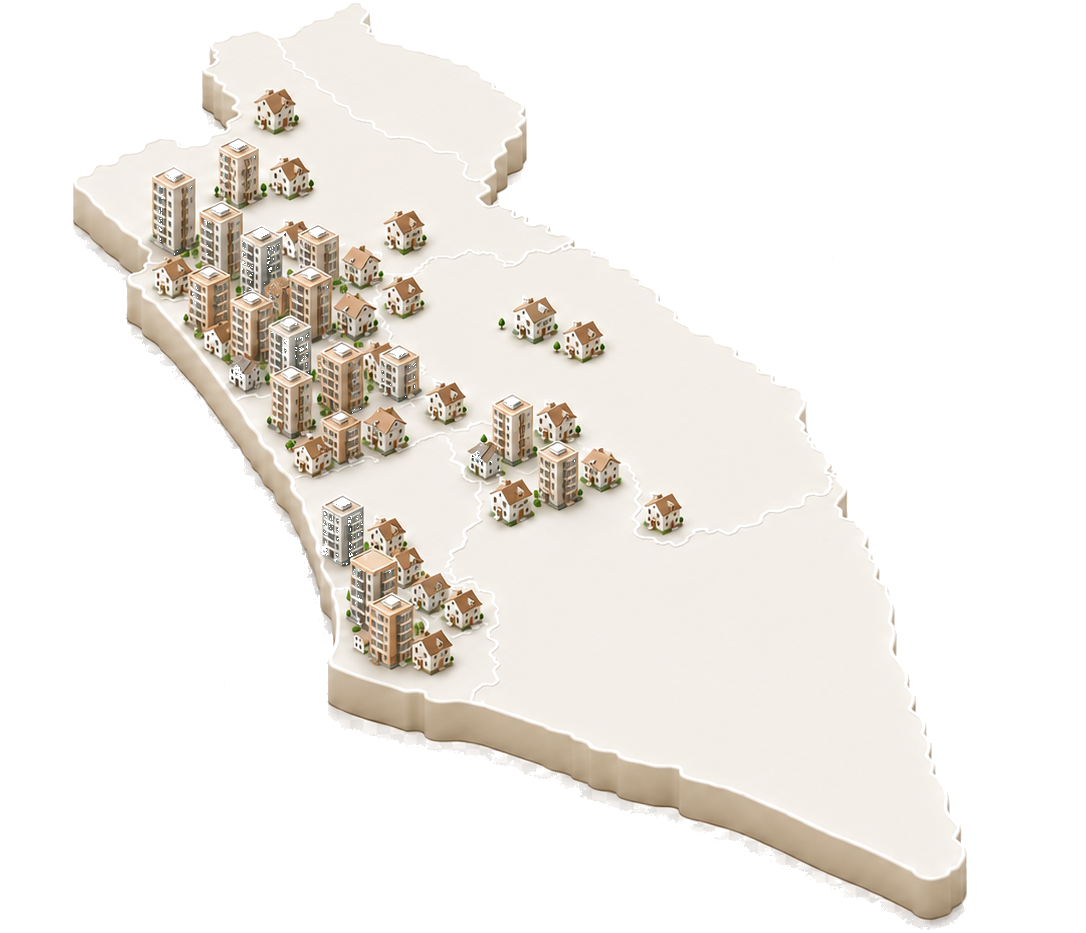
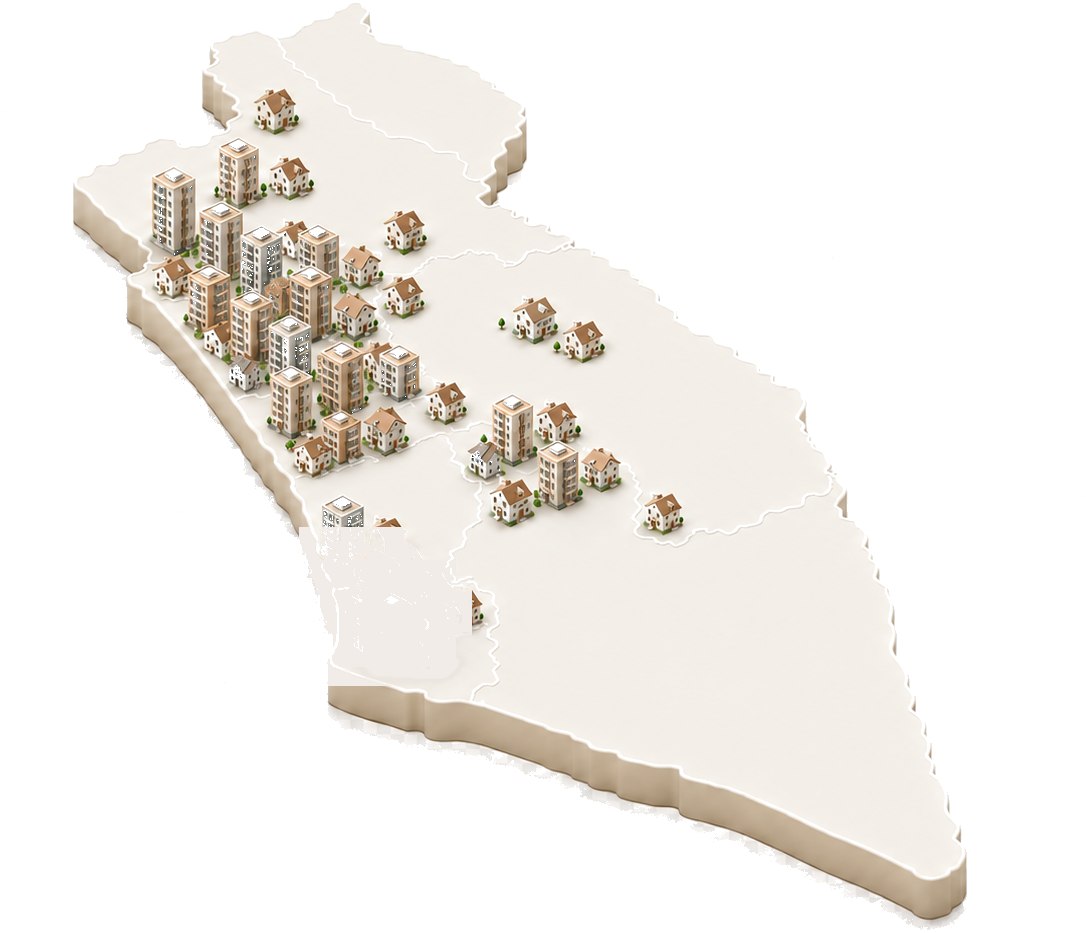
Update landing page

Changed region(s): [[0.2735, 0.5595, 0.4558, 0.746]]

diff --git a/script.js b/script.js
@@ -255,103 +255,61 @@ document.addEventListener('DOMContentLoaded', () => {
   // Footer year
   document.getElementById('year').textContent = new Date().getFullYear();
 
-  // ===== Nationwide coverage map: interactive home/building markers =====
-  // Positions are hand-placed percentages (--x/--y) tuned against the actual
-  // israel-map.png artwork, so they sit visually on the areas they name.
+  // ===== Nationwide coverage map: hover-by-region =====
+  // Each city is a whole area of the map (an ellipse), not a single icon —
+  // hovering anywhere inside it shows the city name. Ellipses were measured
+  // directly off a hand-annotated reference (circles drawn over israel-map.png).
   (function buildCoverageIcons() {
     const wrap = document.getElementById('coverage-wrap');
     const layer = document.getElementById('map-icons-layer');
     const tip = document.getElementById('map-tooltip');
     if (!wrap || !layer || !tip) return;
 
-    // [city, type, x%, y%] — one marker per city, placed by real lon/lat
-    // (calibrated against Jerusalem + Eilat on the accurate outline map).
-    // Hotspot positions hand-placed to sit on the pre-rendered building
-    // clusters in israel-map.png (the artwork already draws the buildings —
-    // these are invisible-by-default hit-targets, see .map-home-marker svg).
-    const mapLocations = [
-      ['הרצליה', 'house', 24, 11],
-      ['תל אביב', 'building', 17, 24],
-      ['רמת גן', 'building', 29, 27],
-      ['פתח תקווה', 'house', 46, 33],
-      ['בת ים', 'house', 16, 38],
-      ['חולון', 'house', 20, 43],
-      ['ראשון לציון', 'house', 25, 48],
-      ['בית שמש', 'building', 46, 47],
-      ['רחובות', 'house', 30, 56],
-      ['אשדוד', 'building', 30, 64],
-      ['אשקלון', 'house', 33, 69]
+    // [city, cx%, cy%, rx%, ry%, zIndex] — where regions overlap, the smaller
+    // one needs the higher zIndex or it gets swallowed by its bigger neighbour.
+    const mapRegions = [
+      ['חיפה', 12, 21, 7, 8, 4],
+      ['הרצליה', 23, 25, 9, 6.5, 2],
+      ['תל אביב', 22, 37, 6.5, 6.5, 6],
+      ['רמת גן', 32, 33, 5.5, 5.5, 9],
+      ['פתח תקווה', 34, 24, 6, 6, 7],
+      ['ירושלים', 51, 33, 7, 6.5, 5],
+      ['חולון', 40, 42, 4, 4, 11],
+      ['בית שמש', 50, 45, 8, 7, 3],
+      ['בת ים', 28, 46, 7, 4, 10],
+      ['אשדוד', 28, 55, 7, 5, 8],
+      ['אשקלון', 34, 65, 9, 9, 1]
     ];
 
-    // Five hand-drawn variants (2 pitched-roof houses + 3 building heights),
-    // each a true isometric box — two shaded wall faces plus a top/roof face —
-    // in the warm terracotta/cream palette from the reference art, cycled per
-    // marker so the cluster reads as a varied 3D streetscape, not a flat icon.
-    const house1SVG = '<svg viewBox="0 0 100 140" xmlns="http://www.w3.org/2000/svg">' +
-      '<polygon points="50,138 28,127 28,101 50,112" fill="#ecd9ba"/>' +
-      '<polygon points="50,138 72,127 72,101 50,112" fill="#d2b98f"/>' +
-      '<polygon points="50,112 28,101 50,75" fill="#c17a3f"/>' +
-      '<polygon points="50,112 72,101 50,75" fill="#9c5827"/>' +
-      '<rect x="34" y="115" width="6" height="6" fill="#fdf6ea"/>' +
-      '<rect x="58" y="115" width="6" height="6" fill="#fdf6ea"/></svg>';
-    const house2SVG = '<svg viewBox="0 0 100 140" xmlns="http://www.w3.org/2000/svg">' +
-      '<polygon points="50,138 28,127 28,97 50,108" fill="#e3cda3"/>' +
-      '<polygon points="50,138 72,127 72,97 50,108" fill="#c7a878"/>' +
-      '<polygon points="50,108 28,97 50,69" fill="#a85c2c"/>' +
-      '<polygon points="50,108 72,97 50,69" fill="#8a481d"/>' +
-      '<rect x="34" y="112" width="6" height="6" fill="#fdf6ea"/>' +
-      '<rect x="58" y="112" width="6" height="6" fill="#fdf6ea"/>' +
-      '<circle cx="84" cy="124" r="7" fill="#5b7a52"/>' +
-      '<rect x="82" y="131" width="3" height="6" fill="#6b4a30"/></svg>';
-    const buildingLowSVG = '<svg viewBox="0 0 100 140" xmlns="http://www.w3.org/2000/svg">' +
-      '<polygon points="50,138 30,128 30,73 50,83" fill="#d9c3a3"/>' +
-      '<polygon points="50,138 70,128 70,73 50,83" fill="#b89968"/>' +
-      '<polygon points="50,83 30,73 50,63 70,73" fill="#e8d9c0"/>' +
-      '<rect x="37" y="95" width="6" height="6" fill="#fdf6ea"/><rect x="37" y="110" width="6" height="6" fill="#fdf6ea"/>' +
-      '<rect x="57" y="95" width="6" height="6" fill="#fdf6ea"/><rect x="57" y="110" width="6" height="6" fill="#fdf6ea"/></svg>';
-    const buildingMidSVG = '<svg viewBox="0 0 100 140" xmlns="http://www.w3.org/2000/svg">' +
-      '<polygon points="50,138 30,128 30,48 50,58" fill="#e3d0b0"/>' +
-      '<polygon points="50,138 70,128 70,48 50,58" fill="#c2a479"/>' +
-      '<polygon points="50,58 30,48 50,38 70,48" fill="#f0e2c8"/>' +
-      '<rect x="37" y="70" width="6" height="6" fill="#fdf6ea"/><rect x="37" y="85" width="6" height="6" fill="#fdf6ea"/><rect x="37" y="100" width="6" height="6" fill="#fdf6ea"/>' +
-      '<rect x="57" y="70" width="6" height="6" fill="#fdf6ea"/><rect x="57" y="85" width="6" height="6" fill="#fdf6ea"/><rect x="57" y="100" width="6" height="6" fill="#fdf6ea"/></svg>';
-    const buildingTallSVG = '<svg viewBox="0 0 100 140" xmlns="http://www.w3.org/2000/svg">' +
-      '<polygon points="50,138 32,129 32,24 50,33" fill="#cdb693"/>' +
-      '<polygon points="50,138 68,129 68,24 50,33" fill="#a9895c"/>' +
-      '<polygon points="50,33 32,24 50,15 68,24" fill="#ddc9a3"/>' +
-      '<rect x="44" y="6" width="12" height="9" fill="#8a6a45"/>' +
-      '<rect x="39" y="45" width="6" height="6" fill="#fdf6ea"/><rect x="39" y="60" width="6" height="6" fill="#fdf6ea"/><rect x="39" y="75" width="6" height="6" fill="#fdf6ea"/><rect x="39" y="95" width="6" height="6" fill="#fdf6ea"/>' +
-      '<rect x="55" y="45" width="6" height="6" fill="#fdf6ea"/><rect x="55" y="60" width="6" height="6" fill="#fdf6ea"/><rect x="55" y="75" width="6" height="6" fill="#fdf6ea"/><rect x="55" y="95" width="6" height="6" fill="#fdf6ea"/></svg>';
-    const houseVariants = [house1SVG, house2SVG];
-    const buildingVariants = [buildingLowSVG, buildingMidSVG, buildingTallSVG];
-
-    let activeMarker = null;
+    let activeZone = null;
     const hideTip = () => {
       tip.classList.remove('show');
-      if (activeMarker) activeMarker.classList.remove('is-active');
-      activeMarker = null;
+      if (activeZone) activeZone.classList.remove('is-active');
+      activeZone = null;
     };
-    const showTip = (city, marker) => {
+    const showTip = (city, zone) => {
       const wrapRect = wrap.getBoundingClientRect();
-      const markerRect = marker.getBoundingClientRect();
+      const zoneRect = zone.getBoundingClientRect();
       tip.textContent = city;
-      tip.style.left = (markerRect.left - wrapRect.left + markerRect.width / 2) + 'px';
-      tip.style.top = (markerRect.top - wrapRect.top) + 'px';
+      tip.style.left = (zoneRect.left - wrapRect.left + zoneRect.width / 2) + 'px';
+      tip.style.top = (zoneRect.top - wrapRect.top + zoneRect.height / 2) + 'px';
       tip.classList.add('show');
-      if (activeMarker && activeMarker !== marker) activeMarker.classList.remove('is-active');
-      marker.classList.add('is-active');
-      activeMarker = marker;
+      if (activeZone && activeZone !== zone) activeZone.classList.remove('is-active');
+      zone.classList.add('is-active');
+      activeZone = zone;
     };
 
-    mapLocations.forEach(([city, type, x, y], i) => {
+    mapRegions.forEach(([city, cx, cy, rx, ry, z]) => {
       const btn = document.createElement('button');
       btn.type = 'button';
-      btn.className = 'map-home-marker';
+      btn.className = 'map-region-zone';
       btn.dataset.city = city;
       btn.setAttribute('aria-label', city);
-      btn.style.setProperty('--x', x + '%');
-      btn.style.setProperty('--y', y + '%');
-      btn.innerHTML = type === 'building' ? buildingVariants[i % buildingVariants.length] : houseVariants[i % houseVariants.length];
+      btn.style.left = cx + '%';
+      btn.style.top = cy + '%';
+      btn.style.width = (rx * 2) + '%';
+      btn.style.height = (ry * 2) + '%';
+      btn.style.zIndex = String(z);
       btn.addEventListener('mouseenter', () => showTip(city, btn));
       btn.addEventListener('mouseleave', hideTip);
       btn.addEventListener('focus', () => showTip(city, btn));

diff --git a/styles.css b/styles.css
@@ -1288,44 +1288,25 @@ html.a11y-align body p, html.a11y-align body li { text-align: right !important; 
   inset: 0;
   pointer-events: none;
 }
-.map-home-marker {
+.map-region-zone {
   position: absolute;
-  left: var(--x);
-  top: var(--y);
-  transform: translate(-50%, -100%);
-  width: 24px;
-  height: 34px;
-  display: flex;
-  align-items: center;
-  justify-content: center;
+  transform: translate(-50%, -50%);
+  border-radius: 50%;
   padding: 0;
-  background: none;
+  background: rgba(138, 98, 61, 0);
   border: none;
   cursor: pointer;
   pointer-events: auto;
-  filter: drop-shadow(0 0 2px #fff) drop-shadow(0 0 2px #fff) drop-shadow(0 2px 4px var(--map-icon-shadow));
-  transition: transform 0.15s ease, filter 0.15s ease;
+  transition: background 0.15s ease;
 }
-.map-home-marker svg { width: 100%; height: 100%; display: block; overflow: visible; opacity: 0; transition: opacity 0.15s ease; }
-.map-home-marker:hover,
-.map-home-marker:focus-visible,
-.map-home-marker.is-active {
-  transform: translate(-50%, -100%) scale(1.2);
-  filter: drop-shadow(0 3px 6px var(--map-icon-shadow)) drop-shadow(0 0 5px var(--map-icon-accent));
-  z-index: 5;
+.map-region-zone:hover,
+.map-region-zone:focus-visible,
+.map-region-zone.is-active {
+  background: rgba(138, 98, 61, 0.16);
 }
-.map-home-marker:hover svg,
-.map-home-marker:focus-visible svg,
-.map-home-marker.is-active svg {
-  opacity: 1;
-}
-.map-home-marker:focus-visible {
+.map-region-zone:focus-visible {
   outline: 2px solid var(--map-icon-accent);
-  outline-offset: 3px;
-  border-radius: 6px;
-}
-@media (max-width: 600px) {
-  .map-home-marker { width: 14px; height: 20px; }
+  outline-offset: 2px;
 }
 
 .map-tooltip {

diff --git a/apartments.html b/apartments.html
@@ -130,7 +130,7 @@
         <h2 class="coverage-title">פריסה ארצית</h2>
       </div>
       <div class="coverage-wrap" id="coverage-wrap">
-        <img src="assets/israel-map.png?v=3" class="coverage-img" alt="מפת ישראל תלת-ממדית המציגה את פריסת הדירות של אסירון באזור המרכז ובדרום">
+        <img src="assets/israel-map.png?v=4" class="coverage-img" alt="מפת ישראל תלת-ממדית המחולקת לאזורים המציגה את פריסת הדירות של אסירון">
         <div class="map-icons-layer" id="map-icons-layer"></div>
         <div class="map-tooltip" id="map-tooltip" role="tooltip"></div>
       </div>
